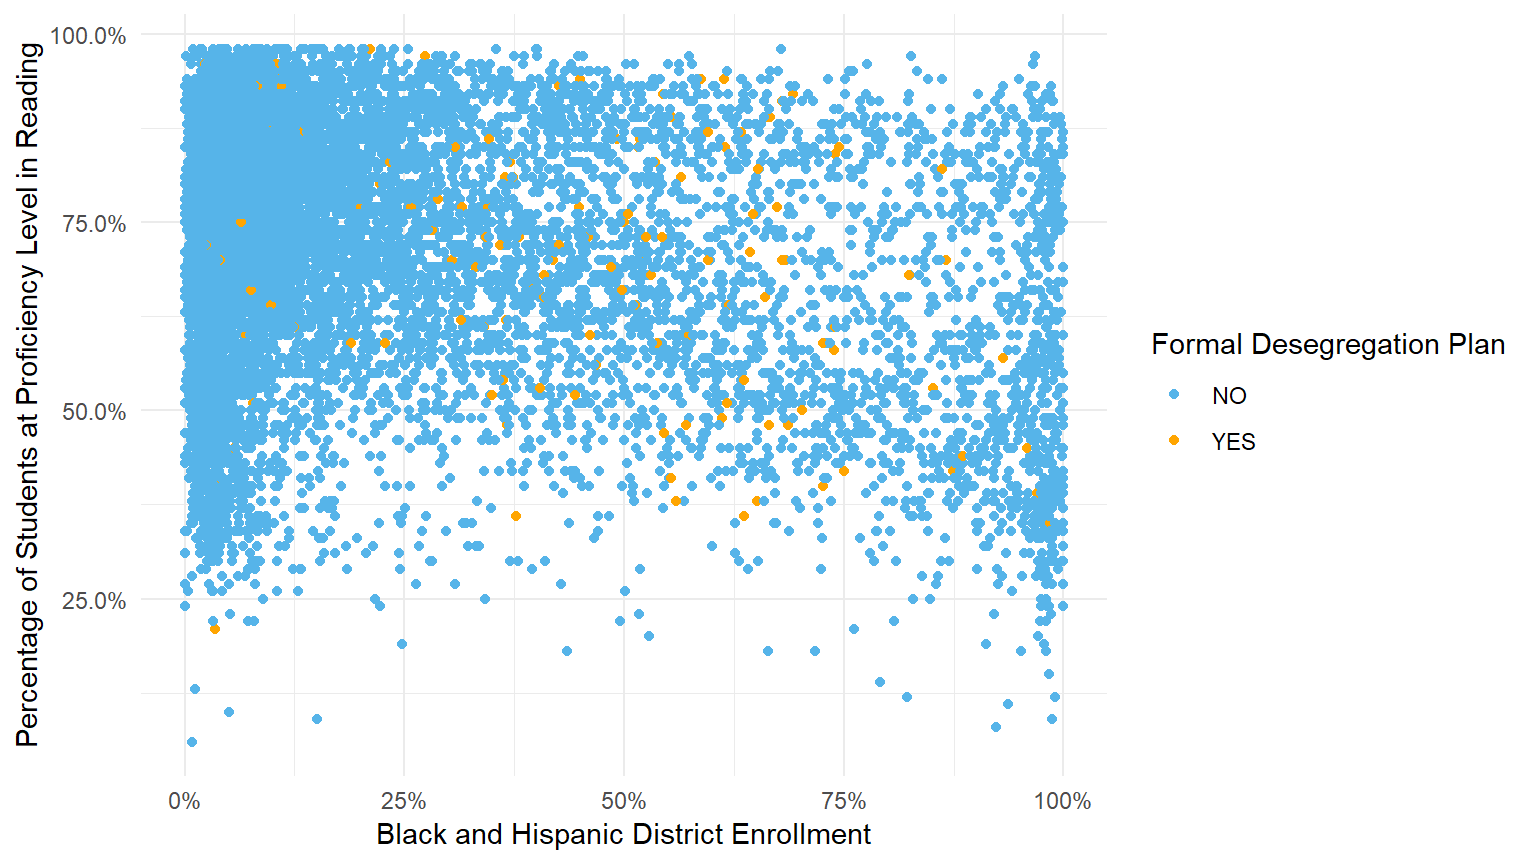
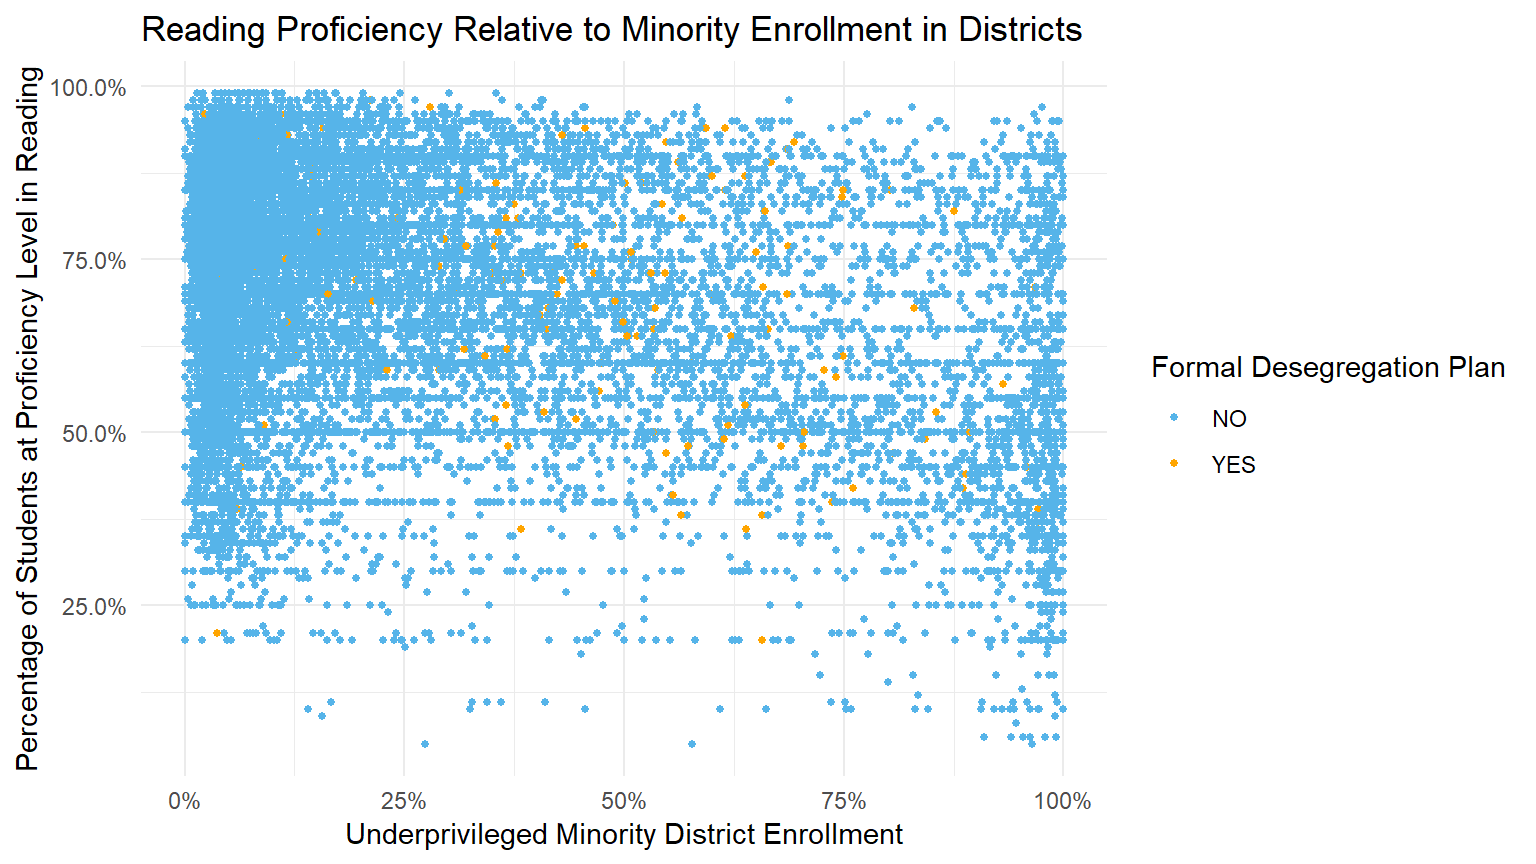
Add files via upload

diff --git a/docs/more_info.html b/docs/more_info.html
@@ -27,52 +27,6 @@
 <script src="site_libs/navigation-1.1/codefolding.js"></script>
 
 
-<style type="text/css">code{white-space: pre;}</style>
-<style type="text/css">
-div.sourceCode { overflow-x: auto; }
-table.sourceCode, tr.sourceCode, td.lineNumbers, td.sourceCode {
-  margin: 0; padding: 0; vertical-align: baseline; border: none; }
-table.sourceCode { width: 100%; line-height: 100%; background-color: #f8f8f8; }
-td.lineNumbers { text-align: right; padding-right: 4px; padding-left: 4px; color: #aaaaaa; border-right: 1px solid #aaaaaa; }
-td.sourceCode { padding-left: 5px; }
-pre, code { background-color: #f8f8f8; }
-code > span.kw { color: #204a87; font-weight: bold; } /* Keyword */
-code > span.dt { color: #204a87; } /* DataType */
-code > span.dv { color: #0000cf; } /* DecVal */
-code > span.bn { color: #0000cf; } /* BaseN */
-code > span.fl { color: #0000cf; } /* Float */
-code > span.ch { color: #4e9a06; } /* Char */
-code > span.st { color: #4e9a06; } /* String */
-code > span.co { color: #8f5902; font-style: italic; } /* Comment */
-code > span.ot { color: #8f5902; } /* Other */
-code > span.al { color: #ef2929; } /* Alert */
-code > span.fu { color: #000000; } /* Function */
-code > span.er { color: #a40000; font-weight: bold; } /* Error */
-code > span.wa { color: #8f5902; font-weight: bold; font-style: italic; } /* Warning */
-code > span.cn { color: #000000; } /* Constant */
-code > span.sc { color: #000000; } /* SpecialChar */
-code > span.vs { color: #4e9a06; } /* VerbatimString */
-code > span.ss { color: #4e9a06; } /* SpecialString */
-code > span.im { } /* Import */
-code > span.va { color: #000000; } /* Variable */
-code > span.cf { color: #204a87; font-weight: bold; } /* ControlFlow */
-code > span.op { color: #ce5c00; font-weight: bold; } /* Operator */
-code > span.pp { color: #8f5902; font-style: italic; } /* Preprocessor */
-code > span.ex { } /* Extension */
-code > span.at { color: #c4a000; } /* Attribute */
-code > span.do { color: #8f5902; font-weight: bold; font-style: italic; } /* Documentation */
-code > span.an { color: #8f5902; font-weight: bold; font-style: italic; } /* Annotation */
-code > span.cv { color: #8f5902; font-weight: bold; font-style: italic; } /* CommentVar */
-code > span.in { color: #8f5902; font-weight: bold; font-style: italic; } /* Information */
-div.sourceCode {
-  overflow-x: visible;
-}
-</style>
-<style type="text/css">
-  pre:not([class]) {
-    background-color: white;
-  }
-</style>
 
 
 <style type="text/css">
@@ -345,111 +299,26 @@ div.tocify {
 
 <h1 class="title toc-ignore">Where Title VI Fails</h1>
 <h4 class="author"><em>Uma Gaffney, Cecilia Mendez, and Belise</em></h4>
-<h4 class="date"><em>Last updated on 2018-12-12</em></h4>
+<h4 class="date"><em>Last updated on 2018-12-13</em></h4>
 
 </div>
 
 
-<div class="sourceCode"><pre class="sourceCode r"><code class="sourceCode r"><span class="kw">library</span>(tidyverse)
-<span class="kw">library</span>(readr)
-<span class="kw">library</span>(leaflet)
-SCH_truncated &lt;-<span class="st"> </span><span class="kw">read_csv</span>(<span class="st">&quot;SCH_truncated.csv&quot;</span>)
-CRDCdistricts &lt;-<span class="st"> </span><span class="kw">read_csv</span>(<span class="st">&quot;CRDC2013_14_LEA.csv&quot;</span>)
-rla20112012 &lt;-<span class="st"> </span><span class="kw">read_csv</span>(<span class="st">&quot;rla20112012.csv&quot;</span>)
-
-LEA_demo &lt;-<span class="st"> </span>SCH_truncated<span class="op">%&gt;%</span><span class="st"> </span>
-<span class="st">  </span><span class="kw">select</span>(<span class="dv">1</span><span class="op">:</span><span class="dv">5</span>, <span class="dv">8</span><span class="op">:</span><span class="dv">10</span>, <span class="dv">27</span><span class="op">:</span><span class="kw">ncol</span>(SCH_truncated)) <span class="op">%&gt;%</span>
-<span class="st">  </span><span class="kw">mutate</span>(<span class="dt">HI =</span> SCH_ENR_HI_M <span class="op">+</span><span class="st"> </span>SCH_ENR_HI_F) <span class="op">%&gt;%</span>
-<span class="st">  </span><span class="kw">mutate</span>(<span class="dt">AM =</span> SCH_ENR_AM_M <span class="op">+</span><span class="st"> </span>SCH_ENR_AM_F) <span class="op">%&gt;%</span>
-<span class="st">  </span><span class="kw">mutate</span>(<span class="dt">AS =</span> SCH_ENR_AS_M <span class="op">+</span><span class="st"> </span>SCH_ENR_AS_F) <span class="op">%&gt;%</span>
-<span class="st">  </span><span class="kw">mutate</span>(<span class="dt">BL =</span> SCH_ENR_BL_M <span class="op">+</span><span class="st"> </span>SCH_ENR_BL_F) <span class="op">%&gt;%</span>
-<span class="st">  </span><span class="kw">mutate</span>(<span class="dt">HP =</span> SCH_ENR_HP_M <span class="op">+</span><span class="st"> </span>SCH_ENR_HP_F) <span class="op">%&gt;%</span>
-<span class="st">  </span><span class="kw">mutate</span>(<span class="dt">WH =</span> SCH_ENR_WH_M <span class="op">+</span><span class="st"> </span>SCH_ENR_WH_F) <span class="op">%&gt;%</span>
-<span class="st">  </span><span class="kw">mutate</span>(<span class="dt">TR =</span> SCH_ENR_TR_M <span class="op">+</span><span class="st"> </span>SCH_ENR_TR_F) <span class="op">%&gt;%</span>
-<span class="st">  </span><span class="kw">mutate</span>(<span class="dt">TOT =</span> TOT_ENR_M <span class="op">+</span><span class="st"> </span>TOT_ENR_F) <span class="op">%&gt;%</span>
-<span class="st">  </span><span class="kw">group_by</span>(LEAID) <span class="op">%&gt;%</span>
-<span class="st">  </span><span class="kw">summarize</span>(<span class="dt">HI =</span> <span class="kw">sum</span>(HI), 
-            <span class="dt">AM =</span> <span class="kw">sum</span>(AM), 
-            <span class="dt">AS =</span> <span class="kw">sum</span>(AS), 
-            <span class="dt">BL =</span> <span class="kw">sum</span>(BL), 
-            <span class="dt">HP =</span> <span class="kw">sum</span>(HP), 
-            <span class="dt">WH =</span> <span class="kw">sum</span>(WH), 
-            <span class="dt">TR =</span> <span class="kw">sum</span>(TR),
-            <span class="dt">TOT =</span> <span class="kw">sum</span>(TOT)) <span class="op">%&gt;%</span>
-<span class="st">  </span><span class="kw">mutate</span>(<span class="dt">HIprop =</span> HI <span class="op">/</span><span class="st"> </span>TOT) <span class="op">%&gt;%</span>
-<span class="st">  </span><span class="kw">mutate</span>(<span class="dt">BLprop =</span> BL <span class="op">/</span><span class="st"> </span>TOT) <span class="op">%&gt;%</span>
-<span class="st">  </span><span class="kw">mutate</span>(<span class="dt">WHprop =</span> WH <span class="op">/</span><span class="st"> </span>TOT) <span class="op">%&gt;%</span>
-<span class="st">  </span><span class="kw">mutate</span>(<span class="dt">HIBLprop =</span> (HI <span class="op">+</span><span class="st"> </span>BL) <span class="op">/</span><span class="st"> </span>TOT) <span class="op">%&gt;%</span>
-<span class="st">  </span><span class="kw">mutate</span>(<span class="dt">minprop =</span> (HI <span class="op">+</span><span class="st"> </span>AM <span class="op">+</span><span class="st"> </span>BL) <span class="op">/</span><span class="st"> </span>TOT) <span class="op">%&gt;%</span>
-<span class="st">  </span><span class="kw">mutate</span>(<span class="dt">mindis =</span> <span class="kw">ifelse</span>(minprop <span class="op">&gt;</span><span class="st"> </span>.<span class="dv">75</span>, <span class="st">&quot;Segregated&quot;</span>, <span class="st">&quot;Not Segregated&quot;</span>))
-
-<span class="co">#The LEAID variable for CRDCdistricts and rla20112012 start with a leading 0</span>
-<span class="co">#follwoing code removes the 0</span>
-CRDCdistricts<span class="op">$</span>LEAID &lt;-<span class="st"> </span><span class="kw">as.integer</span>(CRDCdistricts<span class="op">$</span>LEAID)
-rla20112012<span class="op">$</span>LEAID &lt;-<span class="st"> </span><span class="kw">as.integer</span>(rla20112012<span class="op">$</span>LEAID)
-
-
-<span class="co">#make the scores numeric; really annoying that this is necessary</span>
-rla20112012<span class="op">$</span>ALL_RLA00pctprof_<span class="dv">1112</span> &lt;-<span class="st"> </span><span class="kw">as.numeric</span>(rla20112012<span class="op">$</span>ALL_RLA00pctprof_<span class="dv">1112</span>)
-rla20112012<span class="op">$</span>MWH_RLA00pctprof_<span class="dv">1112</span> &lt;-<span class="st"> </span><span class="kw">as.numeric</span>(rla20112012<span class="op">$</span>MWH_RLA00pctprof_<span class="dv">1112</span>)
-rla20112012<span class="op">$</span>MHI_RLA00pctprof_<span class="dv">1112</span> &lt;-<span class="st"> </span><span class="kw">as.numeric</span>(rla20112012<span class="op">$</span>MHI_RLA00pctprof_<span class="dv">1112</span>)
-rla20112012<span class="op">$</span>MBL_RLA00pctprof_<span class="dv">1112</span> &lt;-<span class="st"> </span><span class="kw">as.numeric</span>(rla20112012<span class="op">$</span>MBL_RLA00pctprof_<span class="dv">1112</span>)
-
-<span class="co">#join wrangled demographic data to district civil rights and district scores data</span>
-joined_districts &lt;-<span class="st"> </span>CRDCdistricts <span class="op">%&gt;%</span>
-<span class="st">  </span><span class="kw">left_join</span>(LEA_demo, <span class="dt">by =</span> <span class="st">&quot;LEAID&quot;</span>) <span class="op">%&gt;%</span>
-<span class="st">  </span><span class="kw">left_join</span>(rla20112012, <span class="dt">by =</span> <span class="st">&quot;LEAID&quot;</span>)</code></pre></div>
 <div id="segregated-districts-in-america" class="section level1">
 <h1>Segregated Districts in America</h1>
 <p>According to the Department of Education’s Civil Rights data, approximately 20,000 of the nearly 100,000 schools that accept federal funding are more than 75% underprivileged minorities. Of those 20,000 schools, almost 13,000 of them, or about 65%, are in districts that are also more than 75% minority. Because the schools in these districts are generally similar in terms of ethnic breakdown, less than 400 segregated schools and just 11 segregated districts have a formal desegregation order or plan in place. Yet the remaining districts are in need of just as much or more help.</p>
 </div>
-<div id="outcomes-for-segregated-districts" class="section level1">
-<h1>Outcomes for Segregated Districts</h1>
-<div class="sourceCode"><pre class="sourceCode r"><code class="sourceCode r"><span class="co">#scores by what % district is black or hispanic</span>
-joined_districts <span class="op">%&gt;%</span>
-<span class="st">  </span><span class="kw">filter</span>(LEA_CRCOORD_RAC_IND <span class="op">!=</span><span class="st"> &quot;-5&quot;</span>) <span class="op">%&gt;%</span>
-<span class="st">  </span><span class="kw">ggplot</span>(<span class="kw">aes</span>(<span class="dt">x =</span> HIBLprop, <span class="dt">y =</span> ALL_RLA00pctprof_<span class="dv">1112</span> <span class="op">/</span><span class="st"> </span><span class="dv">100</span>, <span class="dt">color =</span> LEA_DESEGPLAN)) <span class="op">+</span><span class="st"> </span>
-<span class="st">  </span><span class="kw">scale_x_continuous</span>(<span class="dt">limits =</span> <span class="kw">c</span>(<span class="dv">0</span>, <span class="dv">1</span>), <span class="dt">labels =</span> scales<span class="op">::</span>percent) <span class="op">+</span>
-<span class="st">  </span><span class="kw">scale_y_continuous</span>(<span class="dt">labels =</span> scales<span class="op">::</span>percent) <span class="op">+</span>
-<span class="st">  </span><span class="kw">geom_point</span>() <span class="op">+</span><span class="st"> </span>
-<span class="st">  </span><span class="kw">theme_minimal</span>() <span class="op">+</span>
-<span class="st">  </span><span class="kw">scale_color_manual</span>(<span class="dt">values=</span><span class="kw">c</span>(<span class="st">&quot;#56B4E9&quot;</span>, <span class="st">&quot;orange&quot;</span>)) <span class="op">+</span>
-<span class="st">  </span><span class="kw">labs</span>(<span class="dt">x =</span> <span class="st">&quot;Black and Hispanic District Enrollment&quot;</span>, <span class="dt">y =</span> <span class="st">&quot;Percentage of Students at Proficiency Level in Reading&quot;</span>, <span class="dt">color =</span> <span class="st">&quot;Formal Desegregation Plan&quot;</span>)</code></pre></div>
+<div id="student-outcomes-and-district-demographics" class="section level1">
+<h1>Student Outcomes and District Demographics</h1>
 <p><img src="more_info_files/figure-html/unnamed-chunk-3-1.png" width="768" /></p>
-<div class="sourceCode"><pre class="sourceCode r"><code class="sourceCode r">joined_districts <span class="op">%&gt;%</span>
-<span class="st">  </span><span class="kw">filter</span>(LEA_STATE <span class="op">==</span><span class="st"> &quot;TX&quot;</span> <span class="op">|</span><span class="st"> </span>LEA_STATE <span class="op">==</span><span class="st"> &quot;NY&quot;</span> <span class="op">|</span><span class="st"> </span>LEA_STATE <span class="op">==</span><span class="st"> &quot;CA&quot;</span>) <span class="op">%&gt;%</span>
-<span class="st">  </span><span class="kw">ggplot</span>(<span class="kw">aes</span>(<span class="dt">x =</span> mindis, <span class="dt">fill =</span> mindis, <span class="dt">y =</span> ALL_RLA00pctprof_<span class="dv">1112</span> <span class="op">/</span><span class="st"> </span><span class="dv">100</span>)) <span class="op">+</span><span class="st"> </span>
-<span class="st">  </span><span class="kw">geom_boxplot</span>() <span class="op">+</span><span class="st"> </span>
-<span class="st">  </span><span class="kw">facet_wrap</span>(<span class="op">~</span>LEA_STATE) <span class="op">+</span><span class="st"> </span>
-<span class="st">  </span><span class="kw">theme_minimal</span>() <span class="op">+</span><span class="st"> </span>
-<span class="st">  </span><span class="kw">scale_fill_brewer</span>(<span class="dt">palette =</span> <span class="st">&quot;Set3&quot;</span>) <span class="op">+</span>
-<span class="st">  </span><span class="kw">labs</span>(<span class="dt">x =</span> <span class="st">&quot;District Enrollment Over 75% Underprivileged Minority (Segregated)&quot;</span>, 
-       <span class="dt">y =</span> <span class="st">&quot;Percentage of Students at Proficiency Level in Reading&quot;</span>, 
-       <span class="dt">fill =</span> <span class="st">&quot;&quot;</span>) <span class="op">+</span>
-<span class="st">  </span><span class="kw">scale_y_continuous</span>(<span class="dt">labels =</span> scales<span class="op">::</span>percent)</code></pre></div>
-<p><img src="more_info_files/figure-html/unnamed-chunk-3-2.png" width="768" /></p>
-<div class="sourceCode"><pre class="sourceCode r"><code class="sourceCode r">joined_districts <span class="op">%&gt;%</span>
-<span class="st">  </span><span class="kw">filter</span>(mindis <span class="op">!=</span><span class="st"> &quot;NA&quot;</span>) <span class="op">%&gt;%</span>
-<span class="st">  </span><span class="kw">select</span>(LEAID, 
-         HIBLprop, 
-         mindis, 
-         ALL_RLA00pctprof_<span class="dv">1112</span>, 
-         MWH_RLA00pctprof_<span class="dv">1112</span>, 
-         MBL_RLA00pctprof_<span class="dv">1112</span>, 
-         MHI_RLA00pctprof_<span class="dv">1112</span>) <span class="op">%&gt;%</span>
-<span class="st">  </span><span class="kw">gather</span>(<span class="dt">key =</span> <span class="st">&quot;ethnicity&quot;</span>, <span class="dt">value =</span> <span class="st">&quot;RLA00pctprof_1112&quot;</span>, <span class="dv">4</span><span class="op">:</span><span class="dv">7</span>) <span class="op">%&gt;%</span>
-<span class="st">  </span><span class="kw">ggplot</span>(<span class="kw">aes</span>(<span class="dt">x =</span> ethnicity, <span class="dt">fill =</span> ethnicity, <span class="dt">y =</span> RLA00pctprof_<span class="dv">1112</span> <span class="op">/</span><span class="st"> </span><span class="dv">100</span>)) <span class="op">+</span><span class="st"> </span>
-<span class="st">  </span><span class="kw">facet_wrap</span>(<span class="op">~</span>mindis) <span class="op">+</span><span class="st"> </span>
-<span class="st">  </span><span class="kw">geom_boxplot</span>() <span class="op">+</span><span class="st"> </span>
-<span class="st">  </span><span class="kw">labs</span>( <span class="dt">y =</span> <span class="st">&quot;Percentage of Students at Proficiency Level in Reading&quot;</span>, 
-        <span class="dt">fill =</span> <span class="st">&quot;Student Race / Ethnicity&quot;</span>, 
-        <span class="dt">x =</span> <span class="st">&quot;&quot;</span>) <span class="op">+</span><span class="st"> </span>
-<span class="st">  </span><span class="kw">scale_y_continuous</span>(<span class="dt">labels =</span> scales<span class="op">::</span>percent) <span class="op">+</span>
-<span class="st">  </span><span class="kw">scale_fill_brewer</span>(<span class="dt">palette =</span> <span class="st">&quot;Set2&quot;</span>, 
-                    <span class="dt">labels =</span> <span class="kw">c</span>(<span class="st">&quot;All&quot;</span>,  <span class="st">&quot;Black&quot;</span>, <span class="st">&quot;Hispanic&quot;</span>, <span class="st">&quot;White&quot;</span>)) <span class="op">+</span>
-<span class="st">  </span><span class="kw">theme_minimal</span>() <span class="op">+</span>
-<span class="st">  </span><span class="kw">theme</span>(<span class="dt">axis.text.x =</span> <span class="kw">element_blank</span>())</code></pre></div>
-<p><img src="more_info_files/figure-html/unnamed-chunk-3-3.png" width="768" /></p>
+</div>
+<div id="segregated-districts-across-the-country" class="section level1">
+<h1>Segregated Districts Across the Country</h1>
+<p><img src="more_info_files/figure-html/unnamed-chunk-4-1.png" width="768" /></p>
+</div>
+<div id="who-hurts-the-most" class="section level1">
+<h1>Who Hurts The Most</h1>
+<p><img src="more_info_files/figure-html/unnamed-chunk-5-1.png" width="768" /></p>
 </div>
 
 
